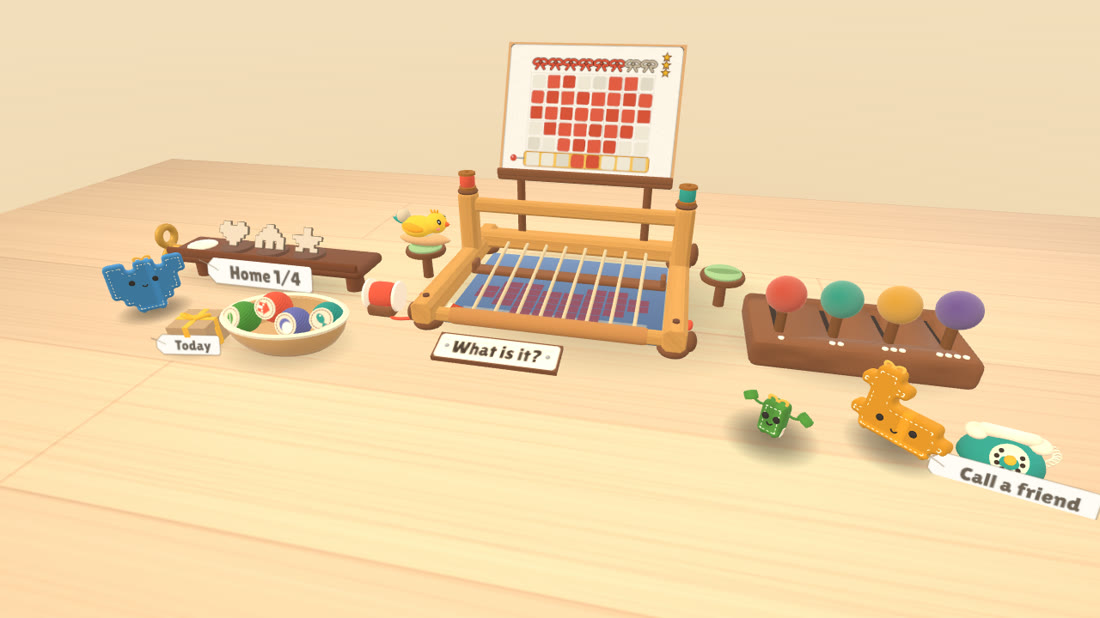
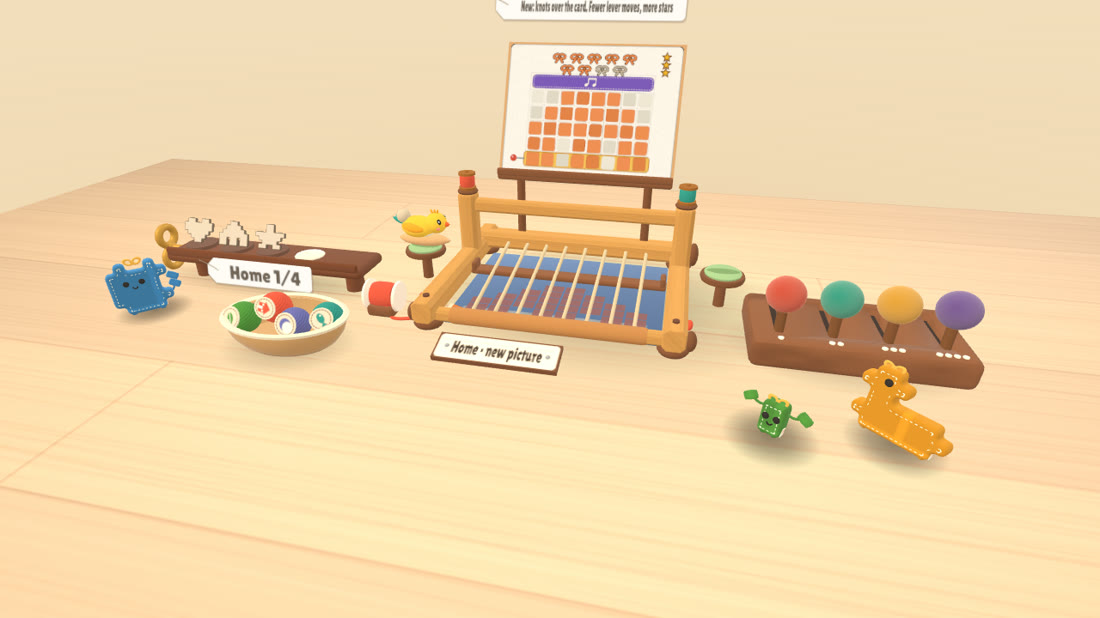
The caller's card counts no knots in Garden (as in the headset) and its lead says two pins a row; site photos from the new build

diff --git a/src/ui/caller.ts b/src/ui/caller.ts
@@ -94,7 +94,7 @@ export function mountCaller(link: Transport, code: string, onLeave: () => void):
       </svg>
       <h1>You're the caller</h1>
     </header>
-    <p class="lead">Only you can see the picture. Read the yellow row to your weaver, and tap a square to put a pin on their loom. You'll hear each row as it's woven.</p>
+    <p class="lead">Only you can see the picture. Describe the yellow row to your weaver. Tap up to two squares a row to pin them on their loom; the rest you say. You'll hear each row as it's woven.</p>
     <div class="cardwrap"></div>
     <div class="tools">
       <button type="button" class="patch ring">Ring Pip</button>
@@ -229,7 +229,7 @@ export function mountCaller(link: Transport, code: string, onLeave: () => void):
       card.paper = lv.chapter === 'night' ? '#b9beea' : null;
       card.sparkles = lv.chapter === 'night';
       card.weft = lv.weft ?? null;
-      card.setPicture(lv.color ?? null, lv.par);
+      card.setPicture(lv.color ?? null, lv.chapter === 'garden' ? 0 : lv.par); // as in the headset: Garden's card counts no knots
     }
     // the headset takes pins out once their row is woven: so does the phone, and it plays the new row
     if (s.r.length !== rowsDone) {
